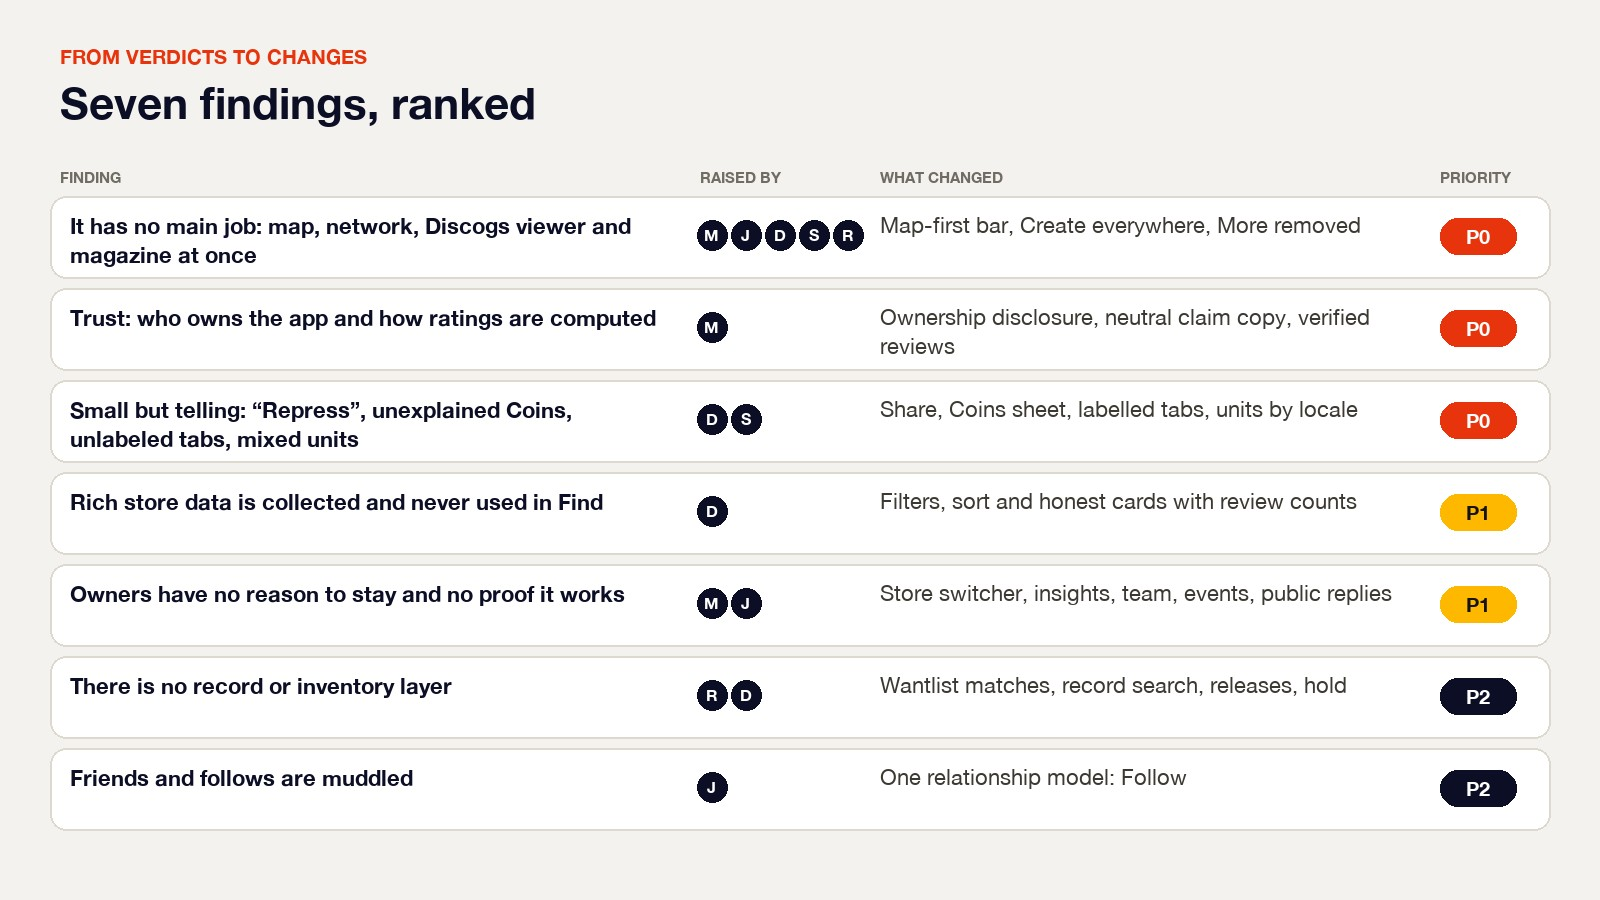
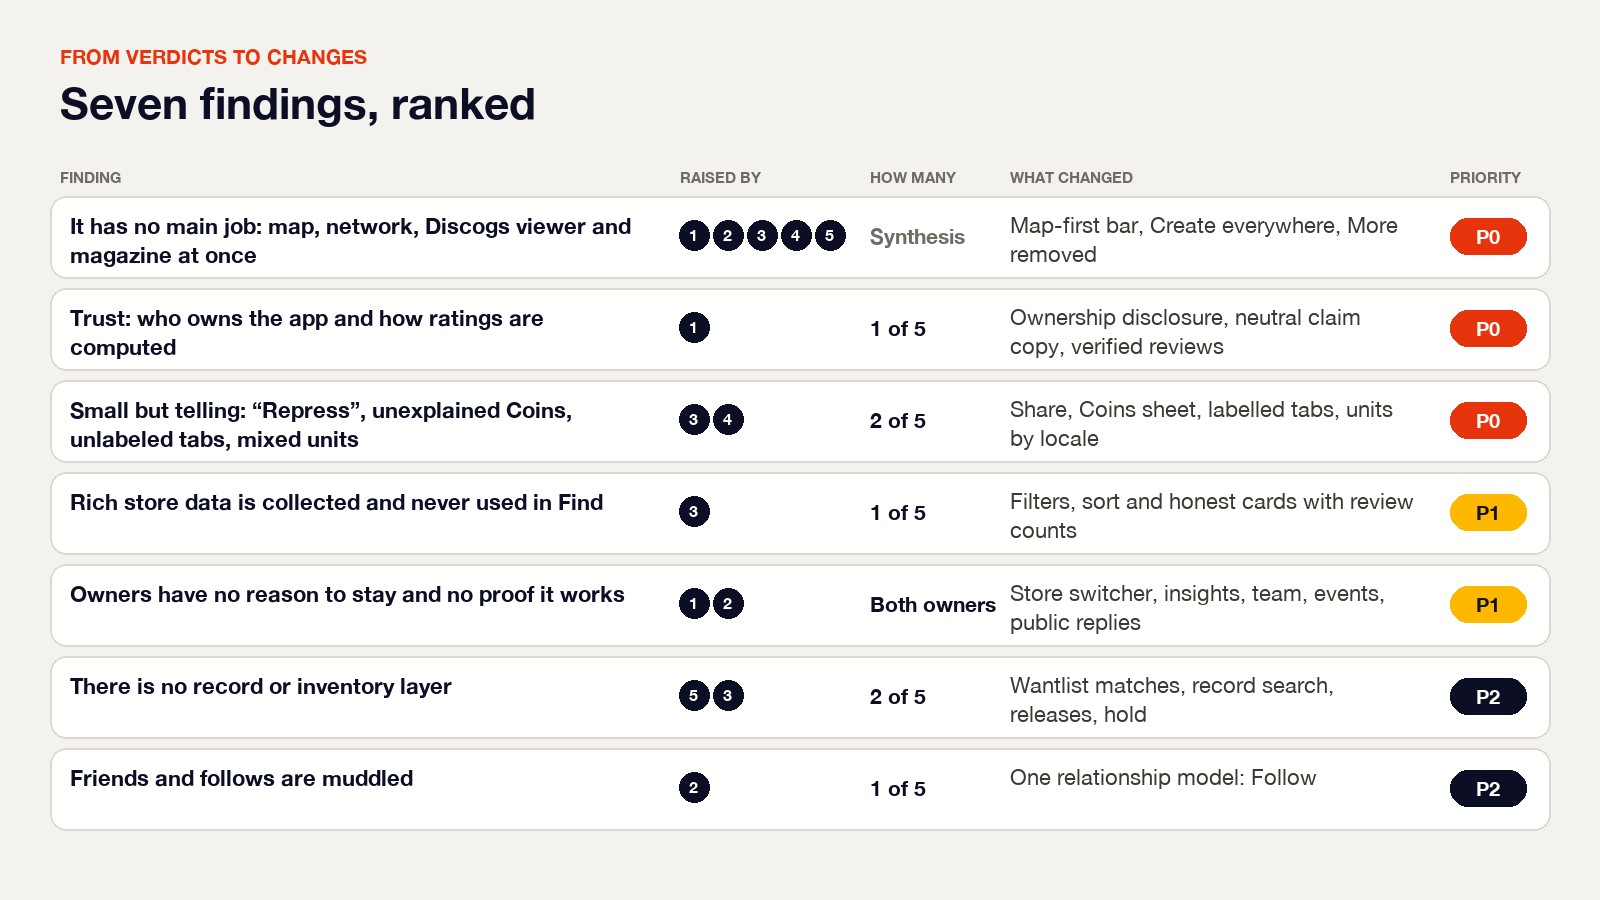
VinylMapper: anonymise interviewees, use real counts instead of names

diff --git a/js/projects-data.js b/js/projects-data.js
@@ -691,7 +691,7 @@ const PROJECTS = [
         "items": [
           {
             "title": "Make the map the front door, and keep Create one tap away",
-            "why": "Sofía, Dez and Ray came for Find. Marlene and Jordan came to post. Meanwhile the most useful content, guides, collectables and claiming a store, sat in More. The bar is now Map, Feed, Create, Messages and Profile: the map opens after login, Create works from any screen, city guides appear on the map for whatever city you browse, and More is gone, replaced by Settings behind the profile gear.",
+            "why": "The collectors came for Find and the owners came to post. Meanwhile the most useful content, guides, collectables and claiming a store, sat in More. The bar is now Map, Feed, Create, Messages and Profile: the map opens after login, Create works from any screen, city guides appear on the map for whatever city you browse, and More is gone, replaced by Settings behind the profile gear.",
             "chosen": "b",
             "a": {
               "label": "Social Home as the front door",
@@ -705,7 +705,7 @@ const PROJECTS = [
           },
           {
             "title": "Turn the data we already collect into filters",
-            "why": "Stores already fill in genres, formats, buy, sell or trade and a used-to-new mix, but Find only offered a name and a distance. Dez’s first reaction was that every store on the map was rated 5.0, which told him nothing. Find now filters by open now, genre, format, buy-sell-trade and used or new, sorts by distance, rating, Selection or Price, and shows every rating with its review count, so 5.0 (2) reads honestly.",
+            "why": "Stores already fill in genres, formats, buy, sell or trade and a used-to-new mix, but Find only offered a name and a distance. The crate digger’s first reaction was that every store on the map was rated 5.0, which told nothing about which shop was worth the drive. Find now filters by open now, genre, format, buy-sell-trade and used or new, sorts by distance, rating, Selection or Price, and shows every rating with its review count, so 5.0 (2) reads honestly.",
             "chosen": "b",
             "a": {
               "label": "A name search and a distance",
@@ -719,7 +719,7 @@ const PROJECTS = [
           },
           {
             "title": "Give owners control, proof and tools",
-            "why": "Marlene could not reply to a review, saw no numbers on what the app did for her and could not even find Store Manager, hidden behind a small icon in the top bar. Jordan had no events, no way to hold a record and no team access. Owners now switch stores from the top of Profile, see views, followers, direction and call taps and check-ins, invite a team with roles, post New arrivals, Events and Announcements, and reply publicly to reviews.",
+            "why": "The veteran owner could not reply to a review, saw no numbers on what the app did for the shop and could not even find Store Manager, hidden behind a small icon in the top bar. The newer shop had no events, no way to hold a record and no team access. Owners now switch stores from the top of Profile, see views, followers, direction and call taps and check-ins, invite a team with roles, post New arrivals, Events and Announcements, and reply publicly to reviews.",
             "chosen": "b",
             "a": {
               "label": "Edit Store and Store Profile",
@@ -733,7 +733,7 @@ const PROJECTS = [
           },
           {
             "title": "Earn trust before asking for it",
-            "why": "Marlene read a prefilled unclaimed page with a “spread the word” banner as Yelp’s playbook, and wanted to know who owns the platform that ranks her shop. The claim screen now says who runs the app and links to how ratings work, the unclaimed line speaks to owners in a neutral tone, only people who checked in can review, and collectables reward quality, such as a review with a photo, instead of review count.",
+            "why": "The veteran owner read a prefilled unclaimed page with a “spread the word” banner as Yelp’s playbook, and wanted to know who owns the platform that ranks the shop. The claim screen now says who runs the app and links to how ratings work, the unclaimed line speaks to owners in a neutral tone, only people who checked in can review, and collectables reward quality, such as a review with a photo, instead of review count.",
             "chosen": "b",
             "a": {
               "label": "A banner aimed at customers",
@@ -747,7 +747,7 @@ const PROJECTS = [
           },
           {
             "title": "Say it in vinyl, and say what things are",
-            "why": "A repress is a real reissue in vinyl, so “Repress this post” confused Dez: it is now Share, with the notification copy to match. Sofía tapped through six unlabeled tabs to learn which one was Vault and which was Discogs, and asked what the 6,280 coins were for. Tabs are now labelled and Discogs stays hidden until connected, Coins has an explainer sheet, and distances follow the locale.",
+            "why": "A repress is a real reissue in vinyl, so “Repress this post” confused the crate digger: it is now Share, with the notification copy to match. The traveling collector tapped through six unlabeled tabs to learn which one was Vault and which was Discogs, and asked what the 6,280 coins were for. Tabs are now labelled and Discogs stays hidden until connected, Coins has an explainer sheet, and distances follow the locale.",
             "chosen": "b",
             "a": {
               "label": "Icons without labels, unexplained terms",
@@ -761,7 +761,7 @@ const PROJECTS = [
           },
           {
             "title": "Make Discogs and records useful",
-            "why": "For Ray, Discogs was decoration: the app displayed a collection he already keeps elsewhere, and the wantlist was used nowhere. The map now highlights stores that match his wantlist, search finds records across store posts, a releases layer shows Record Store Day and new pressings, and favorite artists fill in from Discogs. Group chats grow from 4 to 12 people for record clubs.",
+            "why": "For the release chaser, Discogs was decoration: the app displayed a collection he already keeps elsewhere, and the wantlist was used nowhere. The map now highlights stores that match his wantlist, search finds records across store posts, a releases layer shows Record Store Day and new pressings, and favorite artists fill in from Discogs. Group chats grow from 4 to 12 people for record clubs.",
             "chosen": "b",
             "a": {
               "label": "A Discogs grid you already have",
@@ -782,13 +782,13 @@ const PROJECTS = [
             "caption": "1. Five interviews, one list of findings",
             "problem": "The prototype looked good, but nobody had checked whether it worked for the people it was for.",
             "solution": "Interview five people as they walk it, then trace every finding to who raised it and rank it.",
-            "text": "I interviewed five people from the app’s audiences: Marlene, a veteran shop owner; Jordan, who runs a newer shop with a bar; Dez, a crate digger and DJ; Sofía, a collector who travels; and Ray, a release chaser with his collection on Discogs. Each one walked through the original prototype and gave a verdict. Seven findings came out of it, from having no main job to small details like mixed units. I ranked them from P0 to P2, and every change in the redesign points back to one of them.",
+            "text": "I interviewed five people from the app’s audiences: the owner of a veteran shop, the owner of a newer shop with a bar, a crate digger and DJ, a collector who travels, and a release chaser with a collection on Discogs. Each one walked through the original prototype and gave a verdict. Seven findings came out of it, from having no main job to small details like mixed units. I ranked them from P0 to P2, and every change in the redesign points back to one of them.",
             "images": [
               {
-                "src": "assets/images/vk-panel.jpg?v=2"
+                "src": "assets/images/vk-panel.jpg?v=3"
               },
               {
-                "src": "assets/images/vk-findings.jpg"
+                "src": "assets/images/vk-findings.jpg?v=2"
               }
             ]
           },

diff --git a/index.html b/index.html
@@ -14,10 +14,10 @@
 <link rel="preconnect" href="https://fonts.gstatic.com" crossorigin>
 <link href="https://fonts.googleapis.com/css2?family=Inter:wght@400;500;600;700;800&display=swap" rel="stylesheet">
 
-<link rel="stylesheet" href="css/style.css?v=20261162">
-<link rel="stylesheet" href="css/home.css?v=20261162">
-<link rel="stylesheet" href="css/hero-lab.css?v=20261162">
-<script src="js/page-wipe.js?v=20261162"></script>
+<link rel="stylesheet" href="css/style.css?v=20261163">
+<link rel="stylesheet" href="css/home.css?v=20261163">
+<link rel="stylesheet" href="css/hero-lab.css?v=20261163">
+<script src="js/page-wipe.js?v=20261163"></script>
 </head>
 <body data-page="work">
 
@@ -133,15 +133,15 @@
 <!-- InertiaPlugin was only used by the dot-grid background below; re-enable
      it alongside the dot-grid script tag if that background comes back. -->
 <!-- <script src="https://cdn.jsdelivr.net/npm/gsap@3.13.0/dist/InertiaPlugin.min.js"></script> -->
-<script src="js/main.js?v=20261162"></script>
-<script src="js/cursor.js?v=20261162"></script>
-<!-- <script src="js/dot-grid.js?v=20261162"></script> -->
-<script src="js/cursor-trail.js?v=20261162"></script>
-<script src="js/text-type.js?v=20261162"></script>
-<script src="js/accordion-gallery.js?v=20261162"></script>
-<script src="js/projects-data.js?v=20261162"></script>
-<script src="js/home.js?v=20261162"></script>
-<script src="js/tech-text.js?v=20261162"></script>
-<script src="js/hero-lab.js?v=20261162"></script>
+<script src="js/main.js?v=20261163"></script>
+<script src="js/cursor.js?v=20261163"></script>
+<!-- <script src="js/dot-grid.js?v=20261163"></script> -->
+<script src="js/cursor-trail.js?v=20261163"></script>
+<script src="js/text-type.js?v=20261163"></script>
+<script src="js/accordion-gallery.js?v=20261163"></script>
+<script src="js/projects-data.js?v=20261163"></script>
+<script src="js/home.js?v=20261163"></script>
+<script src="js/tech-text.js?v=20261163"></script>
+<script src="js/hero-lab.js?v=20261163"></script>
 </body>
 </html>

diff --git a/project.html b/project.html
@@ -14,9 +14,9 @@
 <link rel="preconnect" href="https://fonts.gstatic.com" crossorigin>
 <link href="https://fonts.googleapis.com/css2?family=Inter:wght@400;500;600;700;800&display=swap" rel="stylesheet">
 
-<link rel="stylesheet" href="css/style.css?v=20261162">
-<link rel="stylesheet" href="css/project.css?v=20261162">
-<script src="js/page-wipe.js?v=20261162"></script>
+<link rel="stylesheet" href="css/style.css?v=20261163">
+<link rel="stylesheet" href="css/project.css?v=20261163">
+<script src="js/page-wipe.js?v=20261163"></script>
 </head>
 <body>
 
@@ -70,9 +70,9 @@
   </div>
 </footer>
 
-<script src="js/main.js?v=20261162"></script>
-<script src="js/cursor.js?v=20261162"></script>
-<script src="js/projects-data.js?v=20261162"></script>
-<script src="js/project-page.js?v=20261162"></script>
+<script src="js/main.js?v=20261163"></script>
+<script src="js/cursor.js?v=20261163"></script>
+<script src="js/projects-data.js?v=20261163"></script>
+<script src="js/project-page.js?v=20261163"></script>
 </body>
 </html>

diff --git a/hero-lab.html b/hero-lab.html
@@ -15,8 +15,8 @@
 <link rel="preconnect" href="https://fonts.gstatic.com" crossorigin>
 <link href="https://fonts.googleapis.com/css2?family=Inter:wght@400;500;600;700;800&display=swap" rel="stylesheet">
 
-<link rel="stylesheet" href="css/style.css?v=20261162">
-<link rel="stylesheet" href="css/hero-lab.css?v=20261162">
+<link rel="stylesheet" href="css/style.css?v=20261163">
+<link rel="stylesheet" href="css/hero-lab.css?v=20261163">
 </head>
 <body data-page="lab">
 
@@ -71,9 +71,9 @@
   </section>
 </main>
 
-<script src="js/main.js?v=20261162"></script>
-<script src="js/cursor.js?v=20261162"></script>
-<script src="js/tech-text.js?v=20261162"></script>
-<script src="js/hero-lab.js?v=20261162"></script>
+<script src="js/main.js?v=20261163"></script>
+<script src="js/cursor.js?v=20261163"></script>
+<script src="js/tech-text.js?v=20261163"></script>
+<script src="js/hero-lab.js?v=20261163"></script>
 </body>
 </html>

diff --git a/about.html b/about.html
@@ -14,9 +14,9 @@
 <link rel="preconnect" href="https://fonts.gstatic.com" crossorigin>
 <link href="https://fonts.googleapis.com/css2?family=Inter:wght@400;500;600;700;800&display=swap" rel="stylesheet">
 
-<link rel="stylesheet" href="css/style.css?v=20261162">
-<link rel="stylesheet" href="css/about.css?v=20261162">
-<script src="js/page-wipe.js?v=20261162"></script>
+<link rel="stylesheet" href="css/style.css?v=20261163">
+<link rel="stylesheet" href="css/about.css?v=20261163">
+<script src="js/page-wipe.js?v=20261163"></script>
 </head>
 <body data-page="about">
 
@@ -169,7 +169,7 @@
   </div>
 </footer>
 
-<script src="js/main.js?v=20261162"></script>
-<script src="js/cursor.js?v=20261162"></script>
+<script src="js/main.js?v=20261163"></script>
+<script src="js/cursor.js?v=20261163"></script>
 </body>
 </html>
